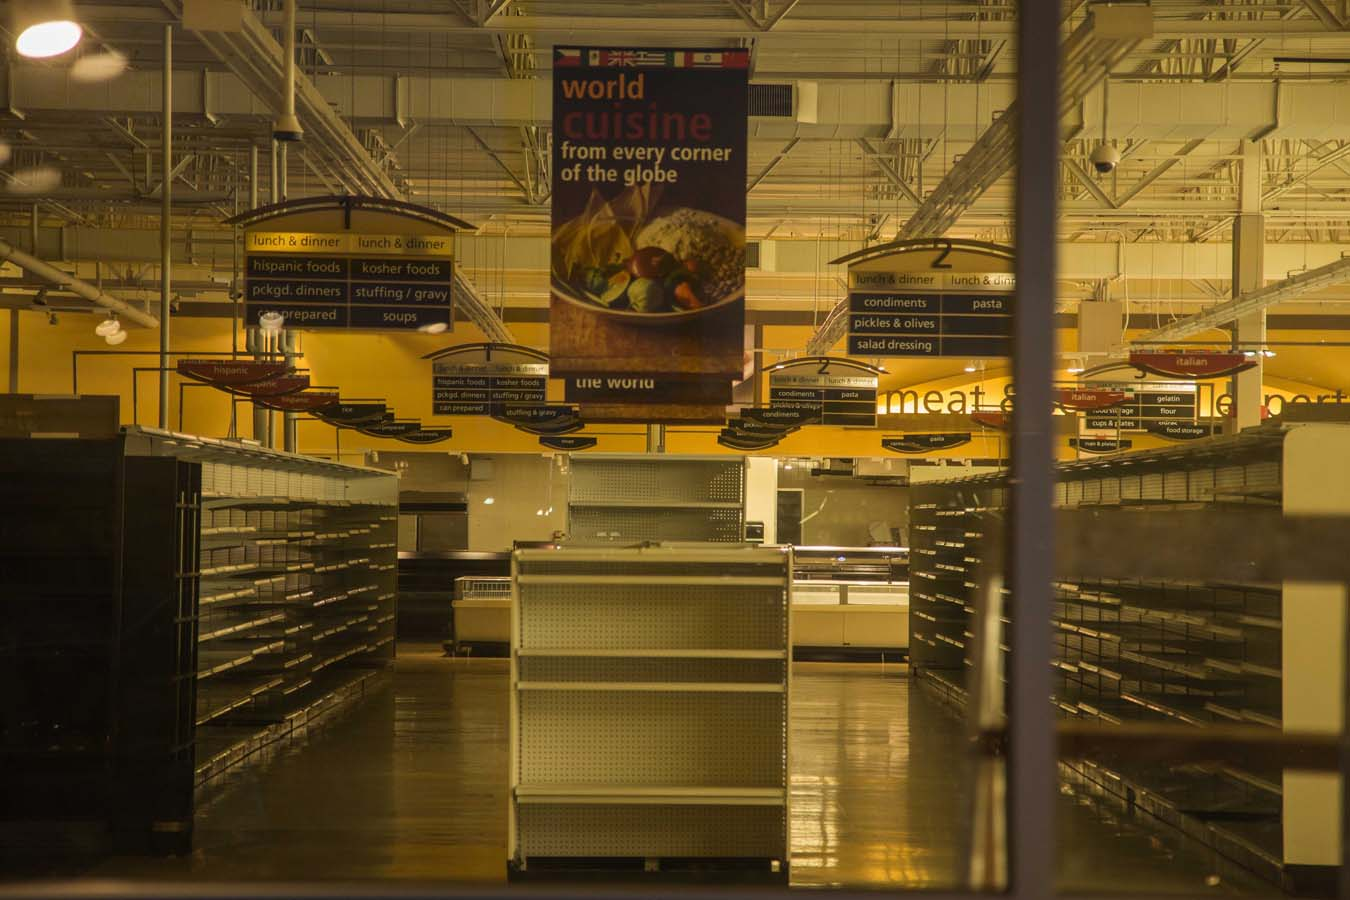
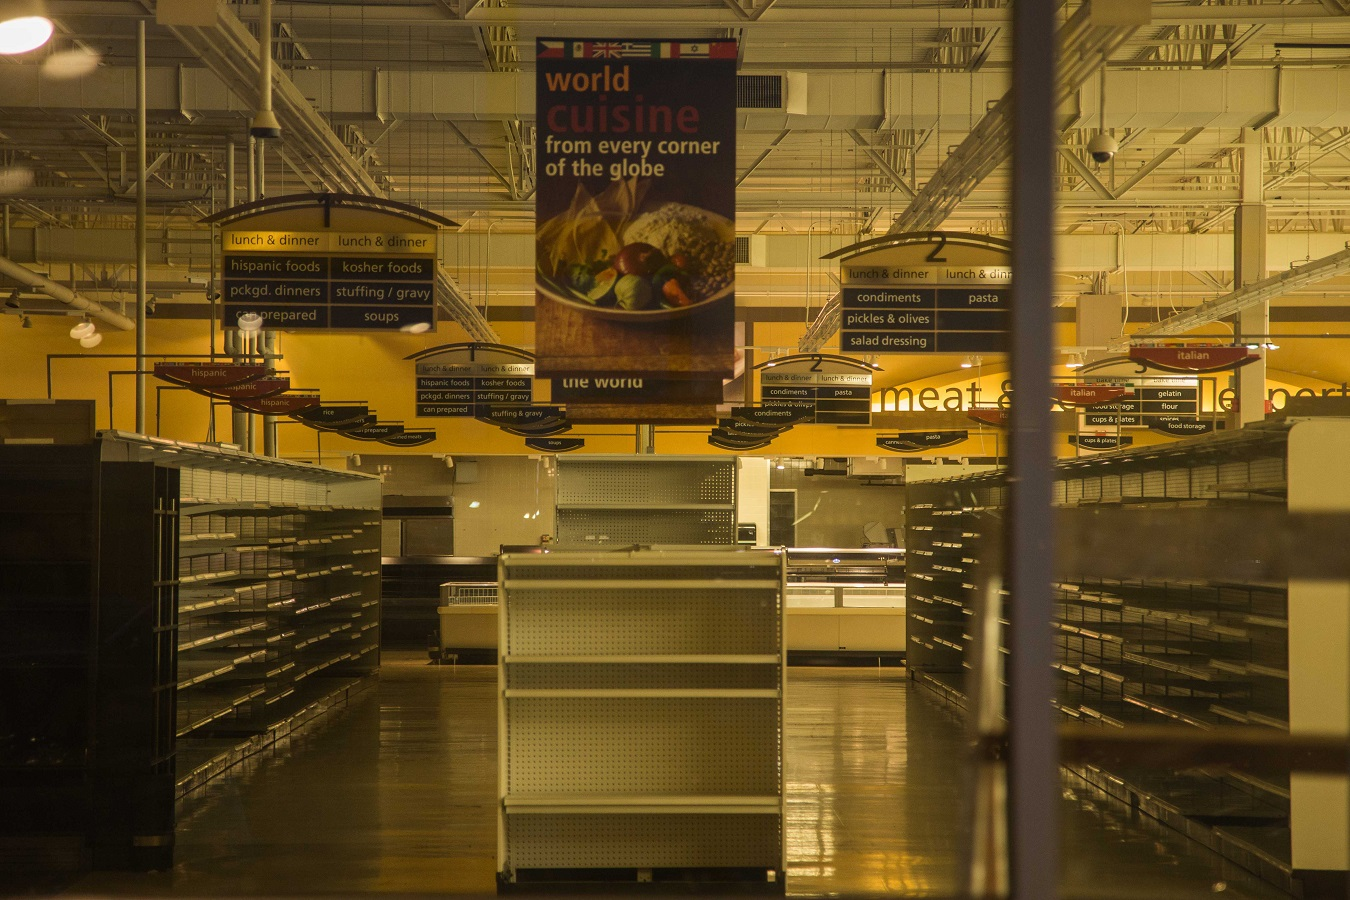
Legendary.
I made the legend. I also fixed the skew photo.

diff --git a/website/index.html b/website/index.html
@@ -4,6 +4,9 @@
 	<title>When A Grocery Store Leaves the Neighborhood</title>
 	<link rel="stylesheet" type="text/css" href="reset.css">
 	<link rel="stylesheet" type="text/css" href="style.css">
+	<meta name='viewport' content='initial-scale=1,maximum-scale=1,user-scalable=no' />
+	<script src='https://api.tiles.mapbox.com/mapbox.js/v1.6.3/mapbox.js'></script>
+	<link href='https://api.tiles.mapbox.com/mapbox.js/v1.6.3/mapbox.css' rel='stylesheet' />
 </head>
 <body>
 
@@ -172,8 +175,31 @@
 			<p>While the store was not in her neighborhood, Grover used to shop at the 2nd Ward Dominick's when her son was at classes at Dance Center Evanston. </p>
 			<p>"It is essential to the walkability and quality of life for the neighborhood to have a grocery store there," she says. </p>
 		</div>
-			<iframe width='100%' height='500px' frameBorder='0' src='http://a.tiles.mapbox.com/v3/dmrogers9.i9hja8ch/attribution,zoompan.html'></iframe>
+<div id='legend' style='display:none;'>
+  <strong>Grocery Stores in Evanston</strong>
+  <nav class='legend clearfix'>
+    <div><span style='background:#1087BF;'></span>Aldi</div>
+    <div><span style='background:#f5c272;'></span>CVS Pharmacy</div>
+    <div><span style='background:#a3e46b;'></span>D & D Finer Foods</div>
+    <div><span style='background:#677da7;'></span>Food 4 Less</div>
+    <div><span style='background:#f1f075;'></span>GFS Marketplace</div>
+    <div><span style='background:#d27591;'></span>J.D. Mills</div>
+    <div><span style='background:#1f1f1f;'></span>Sam's Club</div>
+    <div><span style='background:#1087bf;'></span>Target</div>
+    <div><span style='background:#d27591;'></span>Trader Joe's</div>
+    <div><span style='background:#e7857f;'></span>Jewel-Osco</div>
+    <div><span style='background:#c091e6;'></span>Walgreens</div>
+    <div><span style='background:#7ec9b1;'></span>Whole Foods</div>
+</div>
+<div id='map'></div>
+
+<script>
+  var map = L.mapbox.map('map', 'dmrogers9.i9hja8ch');
+  map.legendControl.addLegend(document.getElementById('legend').innerHTML);
+  map.scrollWheelZoom.disable();
+</script>
 		<div class="widetext">
+			<br>
 			<p>If you look at where the grocery stores are located in Evanston, aside from this new Whole Foods, all of the major stores run along Howard Street and Chicago Avenue, the city's south and east sides, respectively. It's on these streets that you will find Trader Joe's, Jewel Osco, and the other two Whole Foods. </p>
 		</div>
 		<div class="section" id="health">

diff --git a/website/style.css b/website/style.css
@@ -1,4 +1,9 @@
 @font-face {
+	font-family:"Century Gothic";
+	src: url(GOTHIC.ttf);
+}
+
+@font-face {
 	font-family:"Century Gothic Italic";
 	src: url(GOTHICI.ttf);
 }
@@ -143,11 +148,6 @@ iframe {
 	width:100%;
 }
 
-.map {
-	padding-bottom:1.5em;
-	width:100%;
-}
-
 #map {
 	padding-bottom:1.5em;
 	width:100%;
@@ -158,8 +158,6 @@ a {
 	text-decoration:none;
 	color:rgb(184,52,8);
 }
-
-.link {}
 
 p,.onethird {
 	font-family: Georgia;
@@ -260,7 +258,6 @@ p,.onethird {
 .dataleft {
 	font-family: "Century Gothic", sans-serif;
 	width: 80%;
-	font-style: italic;
 	font-size: 1.25em;
 	margin-right: 3%;
 	margin-left: 17%;
@@ -289,6 +286,17 @@ th, td {
 .hover {
 	color: rgb(227, 165, 80);
 }
+
+.legend label,
+.legend span {
+  display:block;
+  float:left;
+  height:15px;
+  width:20%;
+  text-align:center;
+  font-size:9px;
+  color:#808080;
+  }
 
 @media screen and (max-width:1150px) and (min-width:951px) {
 	#title {
@@ -360,10 +368,6 @@ th, td {
 		padding: 1px;
 	}
 
-	.photobox {
-		height:350px;
-	}
-
 	.content {
 		width: 800px;
 	}
@@ -403,10 +407,6 @@ th, td {
 		padding: 2px;
 	}
 
-	.photobox {
-		height:350px;
-	}
-
 	.content {
 		width: 100%;
 	}
@@ -417,12 +417,12 @@ th, td {
 	}
 
 	.twothirds {
-		width:80%;
+		width:100%;
 		margin: auto;
 	}
 
 	.thirdtextleft, .thirdtextright {
-		width: 80%;
+		width: 70%;
 		margin: auto;
 	}
 
@@ -431,9 +431,17 @@ th, td {
 		margin:auto;
 	}
 
-	.photo {
+	.photoleft, .photoright,.middlephoto {
 		width: 80%;
 		margin-left: 10%;
 		margin-right:10%;
+	}
+
+	.legend {
+		display:none;
+	}
+
+	.caption,.captionleft,.captionright {
+		margin:auto;
 	}
 }
